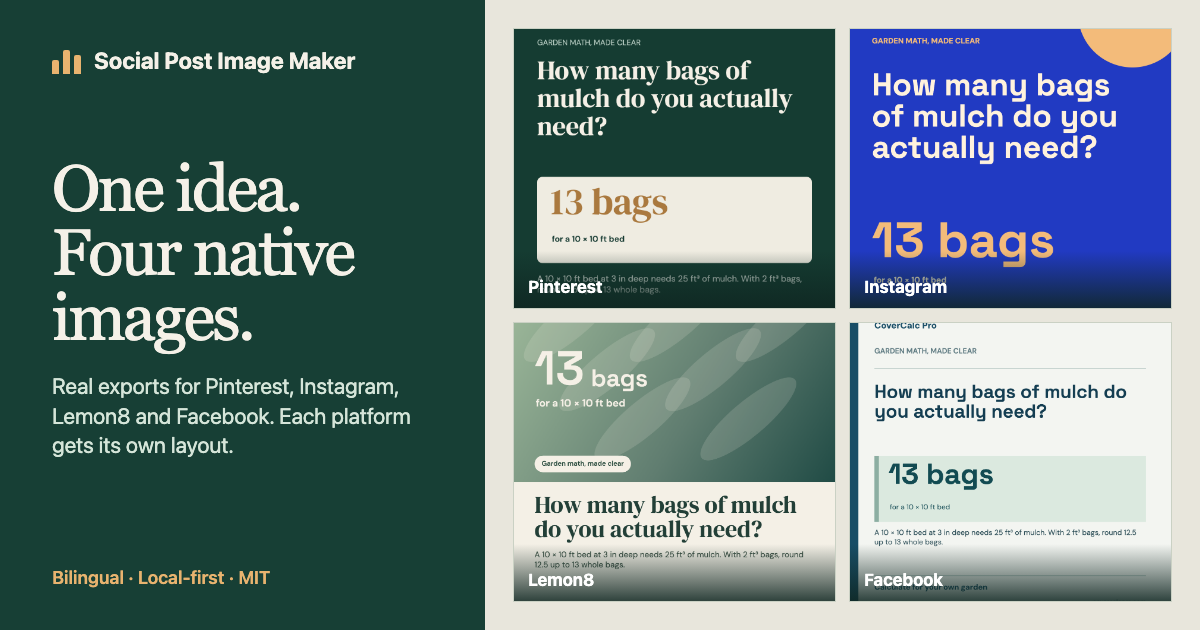
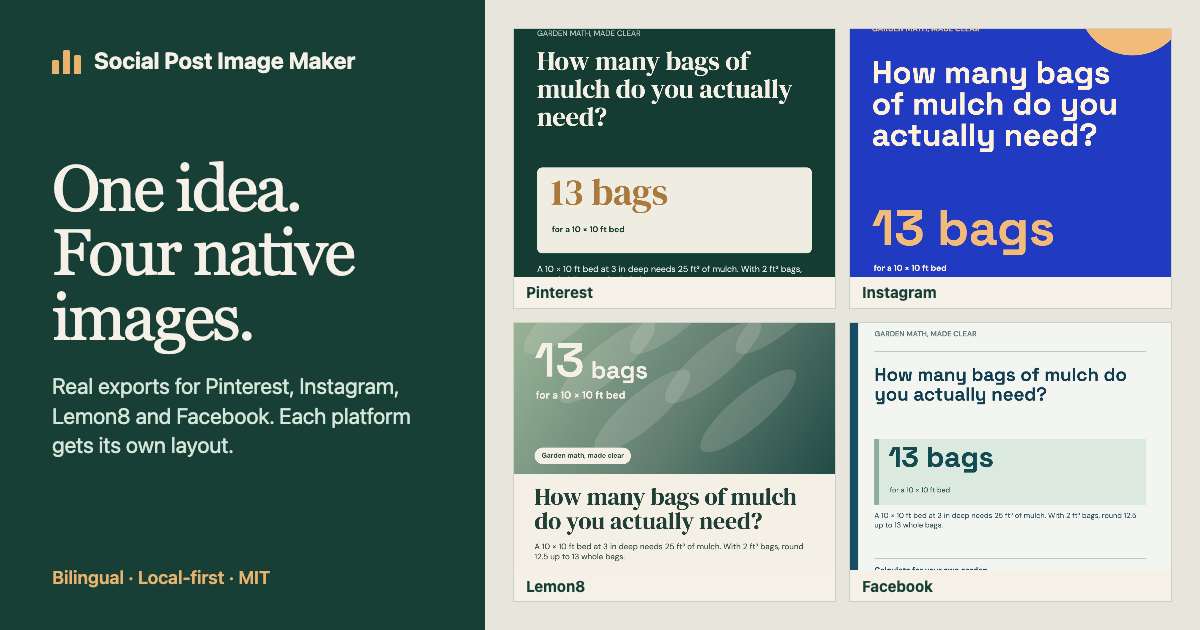
Keep platform labels clear in share previews

diff --git a/docs/social-card.html b/docs/social-card.html
@@ -18,13 +18,13 @@
     p { margin: 23px 0 0; max-width: 370px; color: #d5e5d9; font-size: 22px; line-height: 1.34; }
     .foot { margin-top: auto; color: #e8b36f; font-size: 18px; font-weight: 600; }
     .proof { display: grid; grid-template-columns: repeat(2, minmax(0, 1fr)); grid-template-rows: repeat(2, minmax(0, 1fr)); min-height: 0; gap: 13px; background: #e8e6dc; padding: 28px; }
-    figure { position: relative; min-height: 0; overflow: hidden; margin: 0; border: 1px solid #cad1c4; background: #fff; }
-    figure img { display: block; width: 100%; height: 100%; object-fit: cover; }
+    figure { display: flex; flex-direction: column; min-height: 0; overflow: hidden; margin: 0; border: 1px solid #cad1c4; background: #fff; }
+    figure img { display: block; width: 100%; height: calc(100% - 31px); object-fit: cover; }
     figure:nth-child(1) img { object-position: center 30%; }
     figure:nth-child(2) img { object-position: center 37%; }
     figure:nth-child(3) img { object-position: center 25%; }
     figure:nth-child(4) img { object-position: center 55%; }
-    figcaption { position: absolute; right: 0; bottom: 0; left: 0; padding: 26px 14px 11px; color: white; background: linear-gradient(transparent, rgba(15, 38, 33, .86)); font-size: 17px; font-weight: 700; }
+    figcaption { display: flex; align-items: center; flex: none; height: 31px; padding: 0 12px; color: #173f35; background: #f5f1e8; font-size: 15px; font-weight: 700; }
     html[lang="zh-CN"] .name { font-size: 25px; }
     html[lang="zh-CN"] h1 { font-size: 59px; letter-spacing: 0; line-height: 1.13; }
     html[lang="zh-CN"] p { font-size: 22px; }

diff --git a/zh.html b/zh.html
@@ -13,7 +13,7 @@
 <meta content="LydiaTools" property="og:site_name"/>
 <meta content="出海社媒配图助手｜Pinterest、Instagram、Lemon8、Facebook" property="og:title"/>
 <meta content="输入自己的内容，选择风格，分别导出 Pinterest、Instagram、Lemon8、Facebook 配图。中文操作，英文文案可直接排版；发布前逐平台预览。" property="og:description"/>
-<meta content="https://lydiatools.github.io/aspectory/social-card-zh.png" property="og:image"/>
+<meta content="https://lydiatools.github.io/aspectory/social-card-zh.png?v=2" property="og:image"/>
 <meta content="image/png" property="og:image:type"/>
 <meta content="1200" property="og:image:width"/>
 <meta content="630" property="og:image:height"/>
@@ -21,7 +21,7 @@
 <meta content="summary_large_image" name="twitter:card"/>
 <meta content="出海社媒配图助手｜Pinterest、Instagram、Lemon8、Facebook" name="twitter:title"/>
 <meta content="输入自己的内容，选择风格，分别导出 Pinterest、Instagram、Lemon8、Facebook 配图。中文操作，英文文案可直接排版；发布前逐平台预览。" name="twitter:description"/>
-<meta content="https://lydiatools.github.io/aspectory/social-card-zh.png" name="twitter:image"/>
+<meta content="https://lydiatools.github.io/aspectory/social-card-zh.png?v=2" name="twitter:image"/>
 <meta content="本工具四平台实际导出配图的局部拼贴，并非运营效果数据。" name="twitter:image:alt"/>
 <title>出海社媒配图助手｜Pinterest、Instagram、Lemon8、Facebook</title>
 <meta content="zh_CN" property="og:locale"/></head>

diff --git a/index.html b/index.html
@@ -13,7 +13,7 @@
     <meta property="og:locale" content="en_US" />
     <meta property="og:title" content="Social Post Image Maker / 出海社媒配图助手" />
     <meta property="og:description" content="One idea, four layouts for Pinterest, Instagram, Lemon8 and Facebook. Free, bilingual, local-first. 中文界面也能制作英文配图。" />
-    <meta property="og:image" content="https://lydiatools.github.io/aspectory/social-card-en.png" />
+    <meta property="og:image" content="https://lydiatools.github.io/aspectory/social-card-en.png?v=2" />
     <meta property="og:image:type" content="image/png" />
     <meta property="og:image:width" content="1200" />
     <meta property="og:image:height" content="630" />
@@ -21,7 +21,7 @@
     <meta name="twitter:card" content="summary_large_image" />
     <meta name="twitter:title" content="Social Post Image Maker / 出海社媒配图助手" />
     <meta name="twitter:description" content="Create separate Pinterest, Instagram, Lemon8 and Facebook images from one verified idea. Chinese or English interface; no account required." />
-    <meta name="twitter:image" content="https://lydiatools.github.io/aspectory/social-card-en.png" />
+    <meta name="twitter:image" content="https://lydiatools.github.io/aspectory/social-card-en.png?v=2" />
     <meta name="twitter:image:alt" content="Four cropped, actual platform exports from the tool; no campaign performance claim." />
     <title>Social Post Image Maker | Pinterest, Instagram, Lemon8 &amp; Facebook</title>
   </head>

diff --git a/docs/screenshots/PROVENANCE.md b/docs/screenshots/PROVENANCE.md
@@ -16,4 +16,4 @@ The PNGs here were exported from Social Post Image Maker in a local browser on 2
 
 The 13-bag number is an illustrative calculation with explicit inputs in the README, not a claim about the pictured garden. The screenshot and CoverCalc Pro imagery are provided as project examples and are not automatically covered by the source-code MIT license.
 
[2 lines of base64/hex data omitted]
